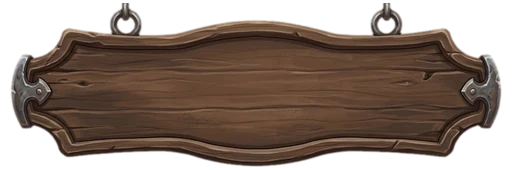
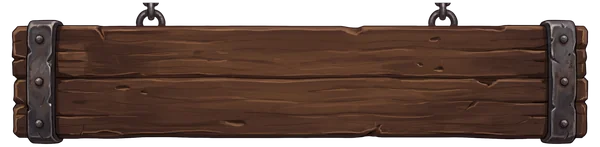
feat: high resolution hanging title sign
Swap in the 4118x1006 sign at 1x, 2x and 3x, serve the right density with image-set, hang the chains from the beam to the ring openings, and centre the title in the plank text-safe rectangle.

diff --git a/frontend/src/components/Header/Header.module.css b/frontend/src/components/Header/Header.module.css
@@ -3,33 +3,41 @@
   padding-bottom: 1.6rem;
 }
 
-/* The sign and what holds it up. The two chains and the rope are placed against this box, which is exactly as wide as the sign. */
+/*
+ * The sign and what holds it up. The two chains and the rope are placed against this box, which is exactly as wide as the sign, and it is a size container so that the title and the chains scale with the sign (cqw).
+ * The sign picture is 4118 x 1006, so its height is 100cqw / 4.0935.
+ */
 .hang {
+  --sign-ratio: 4.0935;
+
   position: relative;
-  width: min(35rem, 100%);
+  width: min(40rem, 100%);
   margin-inline: auto;
   padding-top: 3.6rem;
+  container-type: inline-size;
 }
 
-/* Each chain starts inside the top beam and ends at a ring of the sign. */
+/* Each chain runs from inside the top beam down to the top opening of a ring, which is 11.13% down the sign. The picture holds the first cut link, so the repeat is anchored at the bottom to meet it. */
 .chain {
   position: absolute;
   top: calc(var(--frame) * -0.55);
-  width: 20px;
-  height: calc(3.6rem + var(--frame) * 0.55 + 12px);
+  width: 3.4cqw;
+  height: calc(3.6rem + var(--frame) * 0.55 + 11.13cqw / var(--sign-ratio));
   background-image: var(--img-chain);
-  background-size: 20px auto;
+  background-size: 100% auto;
   background-repeat: repeat-y;
+  background-position: center bottom;
   filter: drop-shadow(3px 4px 3px rgb(0 0 0 / 0.55));
   pointer-events: none;
 }
 
+/* The centres of the ring holes, as a share of the sign width. */
 .chainLeft {
-  left: calc(24.4% - 10px);
+  left: calc(25.1% - 1.7cqw);
 }
 
 .chainRight {
-  left: calc(77.4% - 10px);
+  left: calc(73.83% - 1.7cqw);
 }
 
 .rope {
@@ -49,18 +57,22 @@
 
 /* The plank is a picture, the title on it is real text. */
 .sign {
-  display: grid;
-  place-items: center;
-  aspect-ratio: 512 / 170;
-  padding: 0 10% 3.5%;
+  position: relative;
+  aspect-ratio: 4118 / 1006;
   background-image: var(--img-sign);
   background-size: 100% 100%;
   filter: drop-shadow(6px 9px 6px rgb(0 0 0 / 0.6));
 }
 
+/* The title fills the text-safe rectangle of the plank (x 9.5% to 90.5%, y 25% to 86%) and is centred in it. */
 .title {
+  position: absolute;
+  inset: 25% 9.5% 14%;
+  display: flex;
+  align-items: center;
+  justify-content: center;
   margin: 0;
-  font-size: clamp(1.7rem, 8vw, 3.1rem);
+  font-size: 10.5cqw;
   line-height: 1;
   letter-spacing: 0.04em;
   text-align: center;

diff --git a/frontend/src/styles/scene.css b/frontend/src/styles/scene.css
@@ -7,7 +7,11 @@
   --img-beam: image-set(url('../assets/scene/frame-beam.webp') 1x, url('../assets/scene/frame-beam@2x.webp') 2x);
   --img-corner: image-set(url('../assets/scene/frame-corner.webp') 1x, url('../assets/scene/frame-corner@2x.webp') 2x);
   --img-chain: image-set(url('../assets/scene/chain.webp') 1x, url('../assets/scene/chain@2x.webp') 2x);
-  --img-sign: image-set(url('../assets/scene/sign-plank.webp') 1x, url('../assets/scene/sign-plank@2x.webp') 2x);
+  --img-sign: image-set(
+    url('../assets/scene/sign-plank.webp') 1x,
+    url('../assets/scene/sign-plank@2x.webp') 2x,
+    url('../assets/scene/sign-plank@3x.webp') 3x
+  );
   --img-wax-seal: image-set(url('../assets/scene/wax-seal.webp') 1x, url('../assets/scene/wax-seal@2x.webp') 2x);
   --img-flame: image-set(
     url('../assets/scene/flame-strip-screen.webp') 1x,
